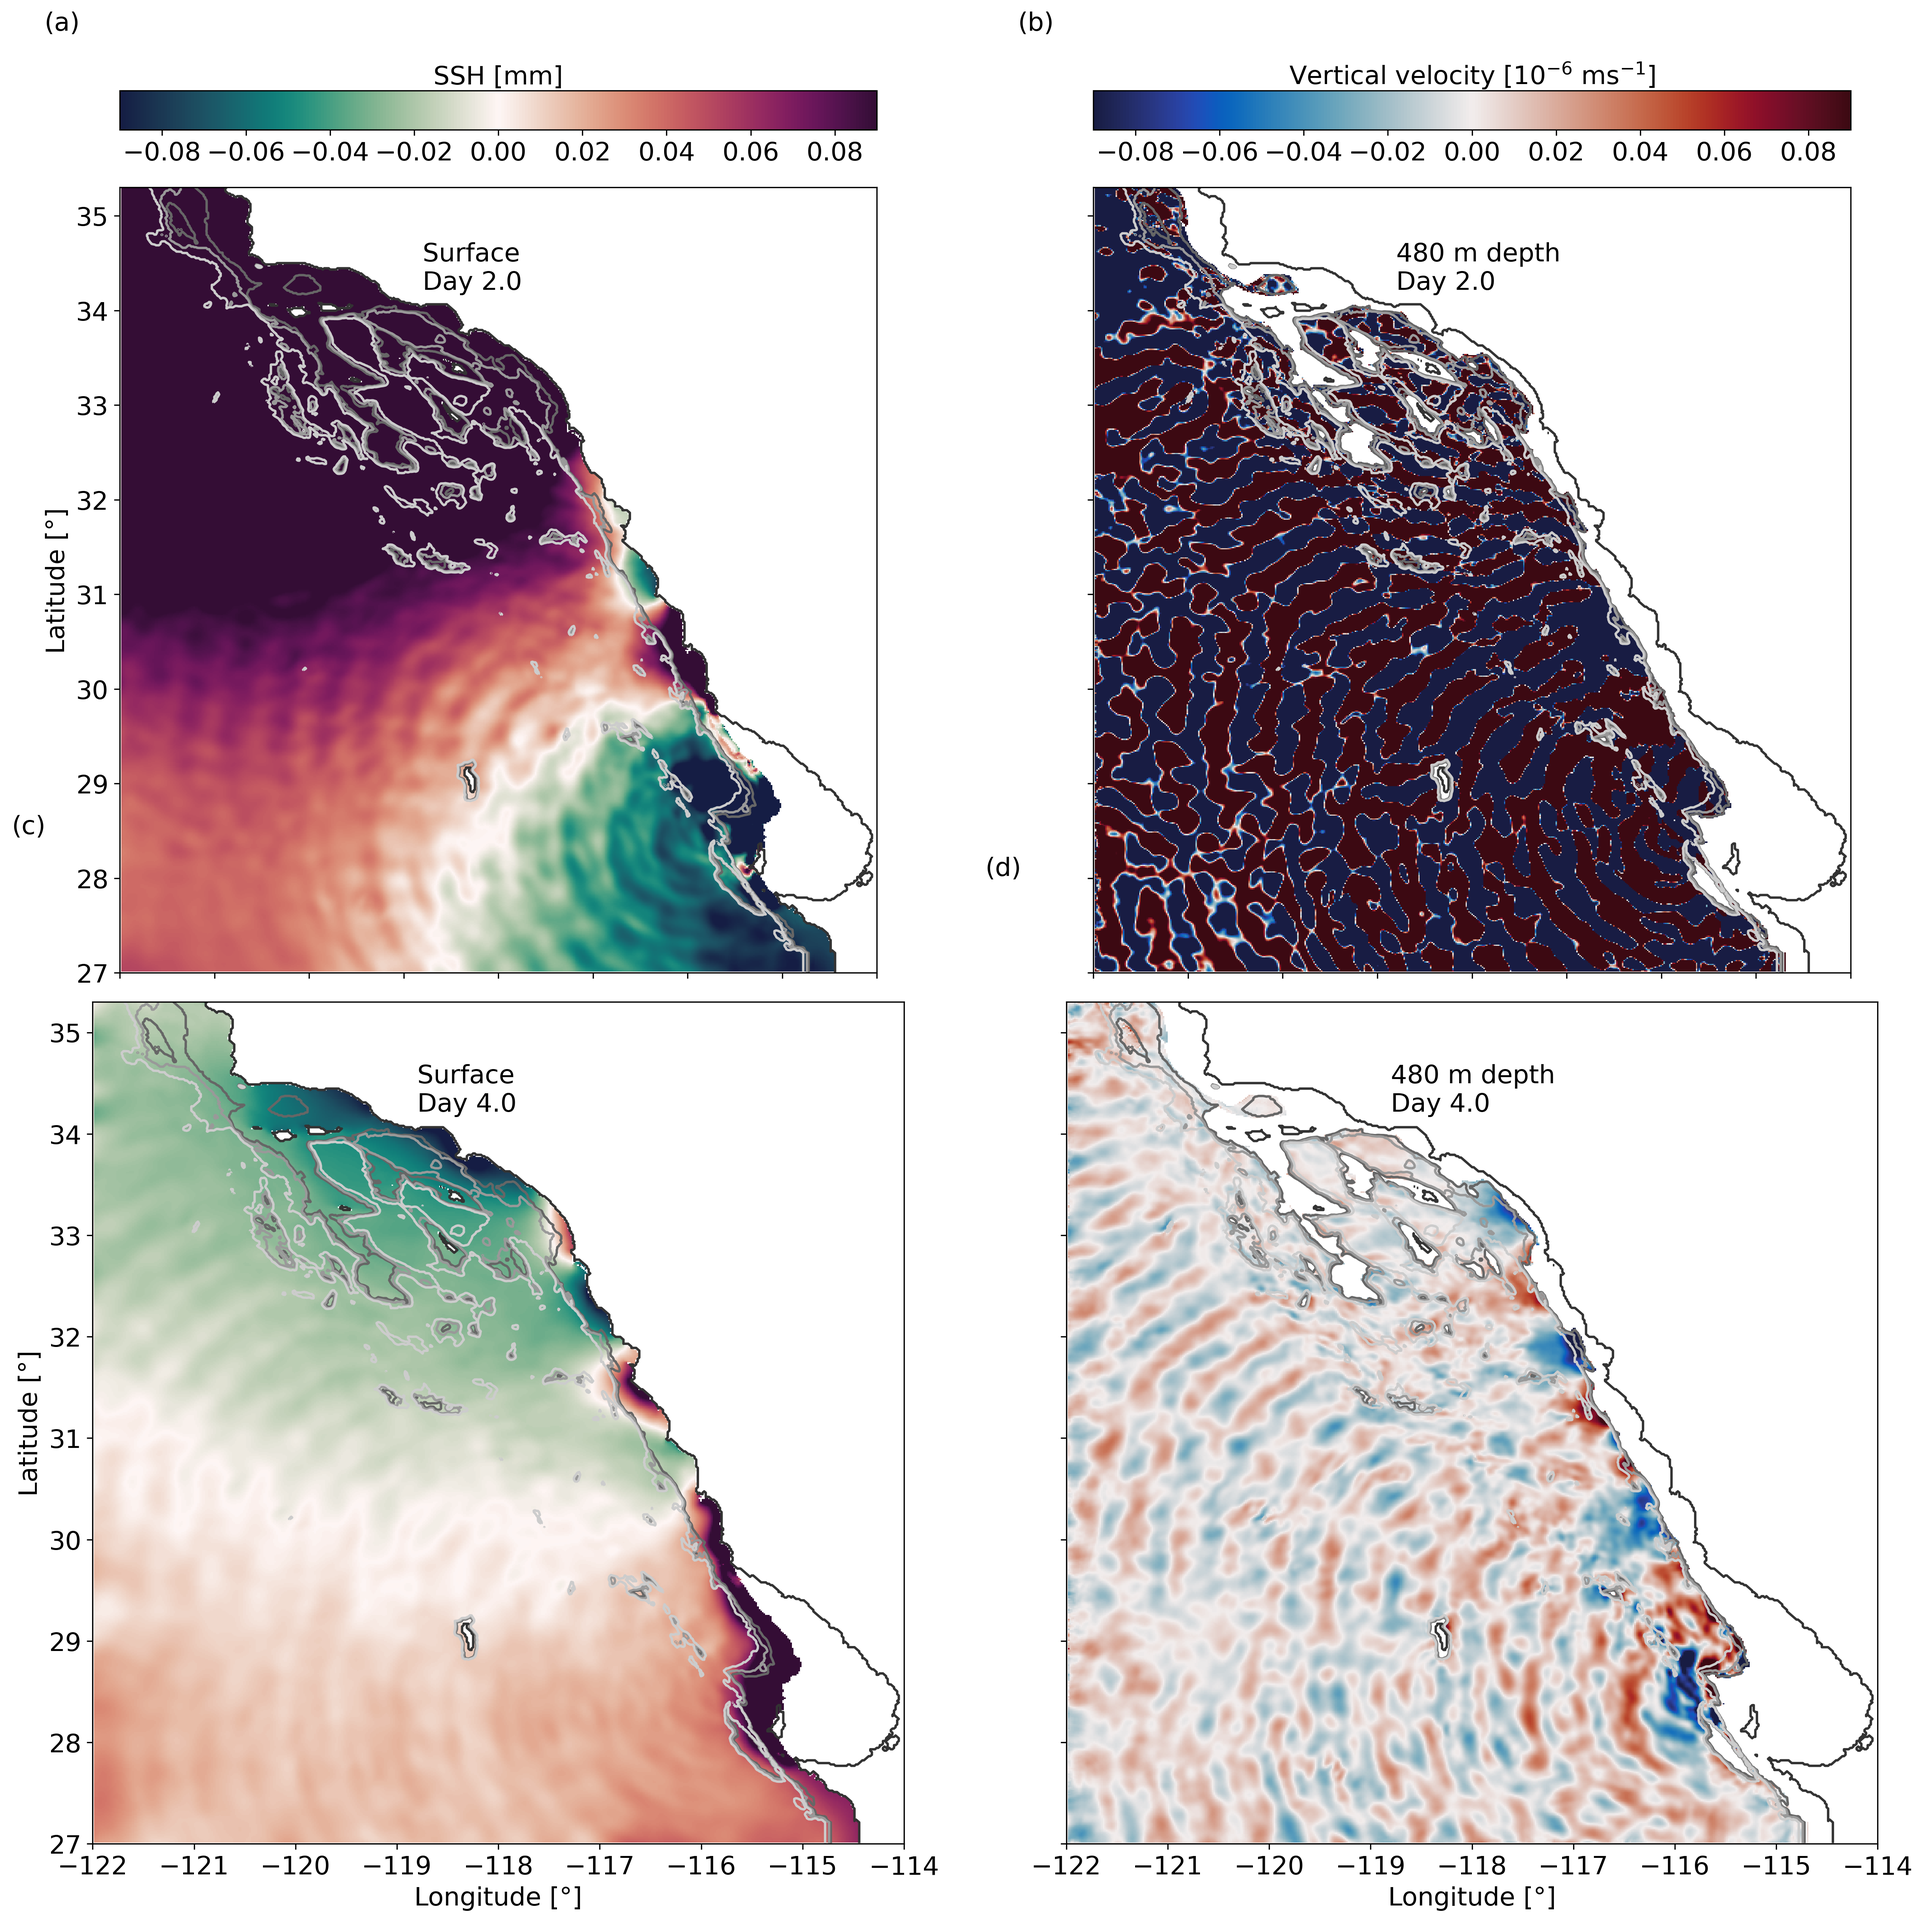
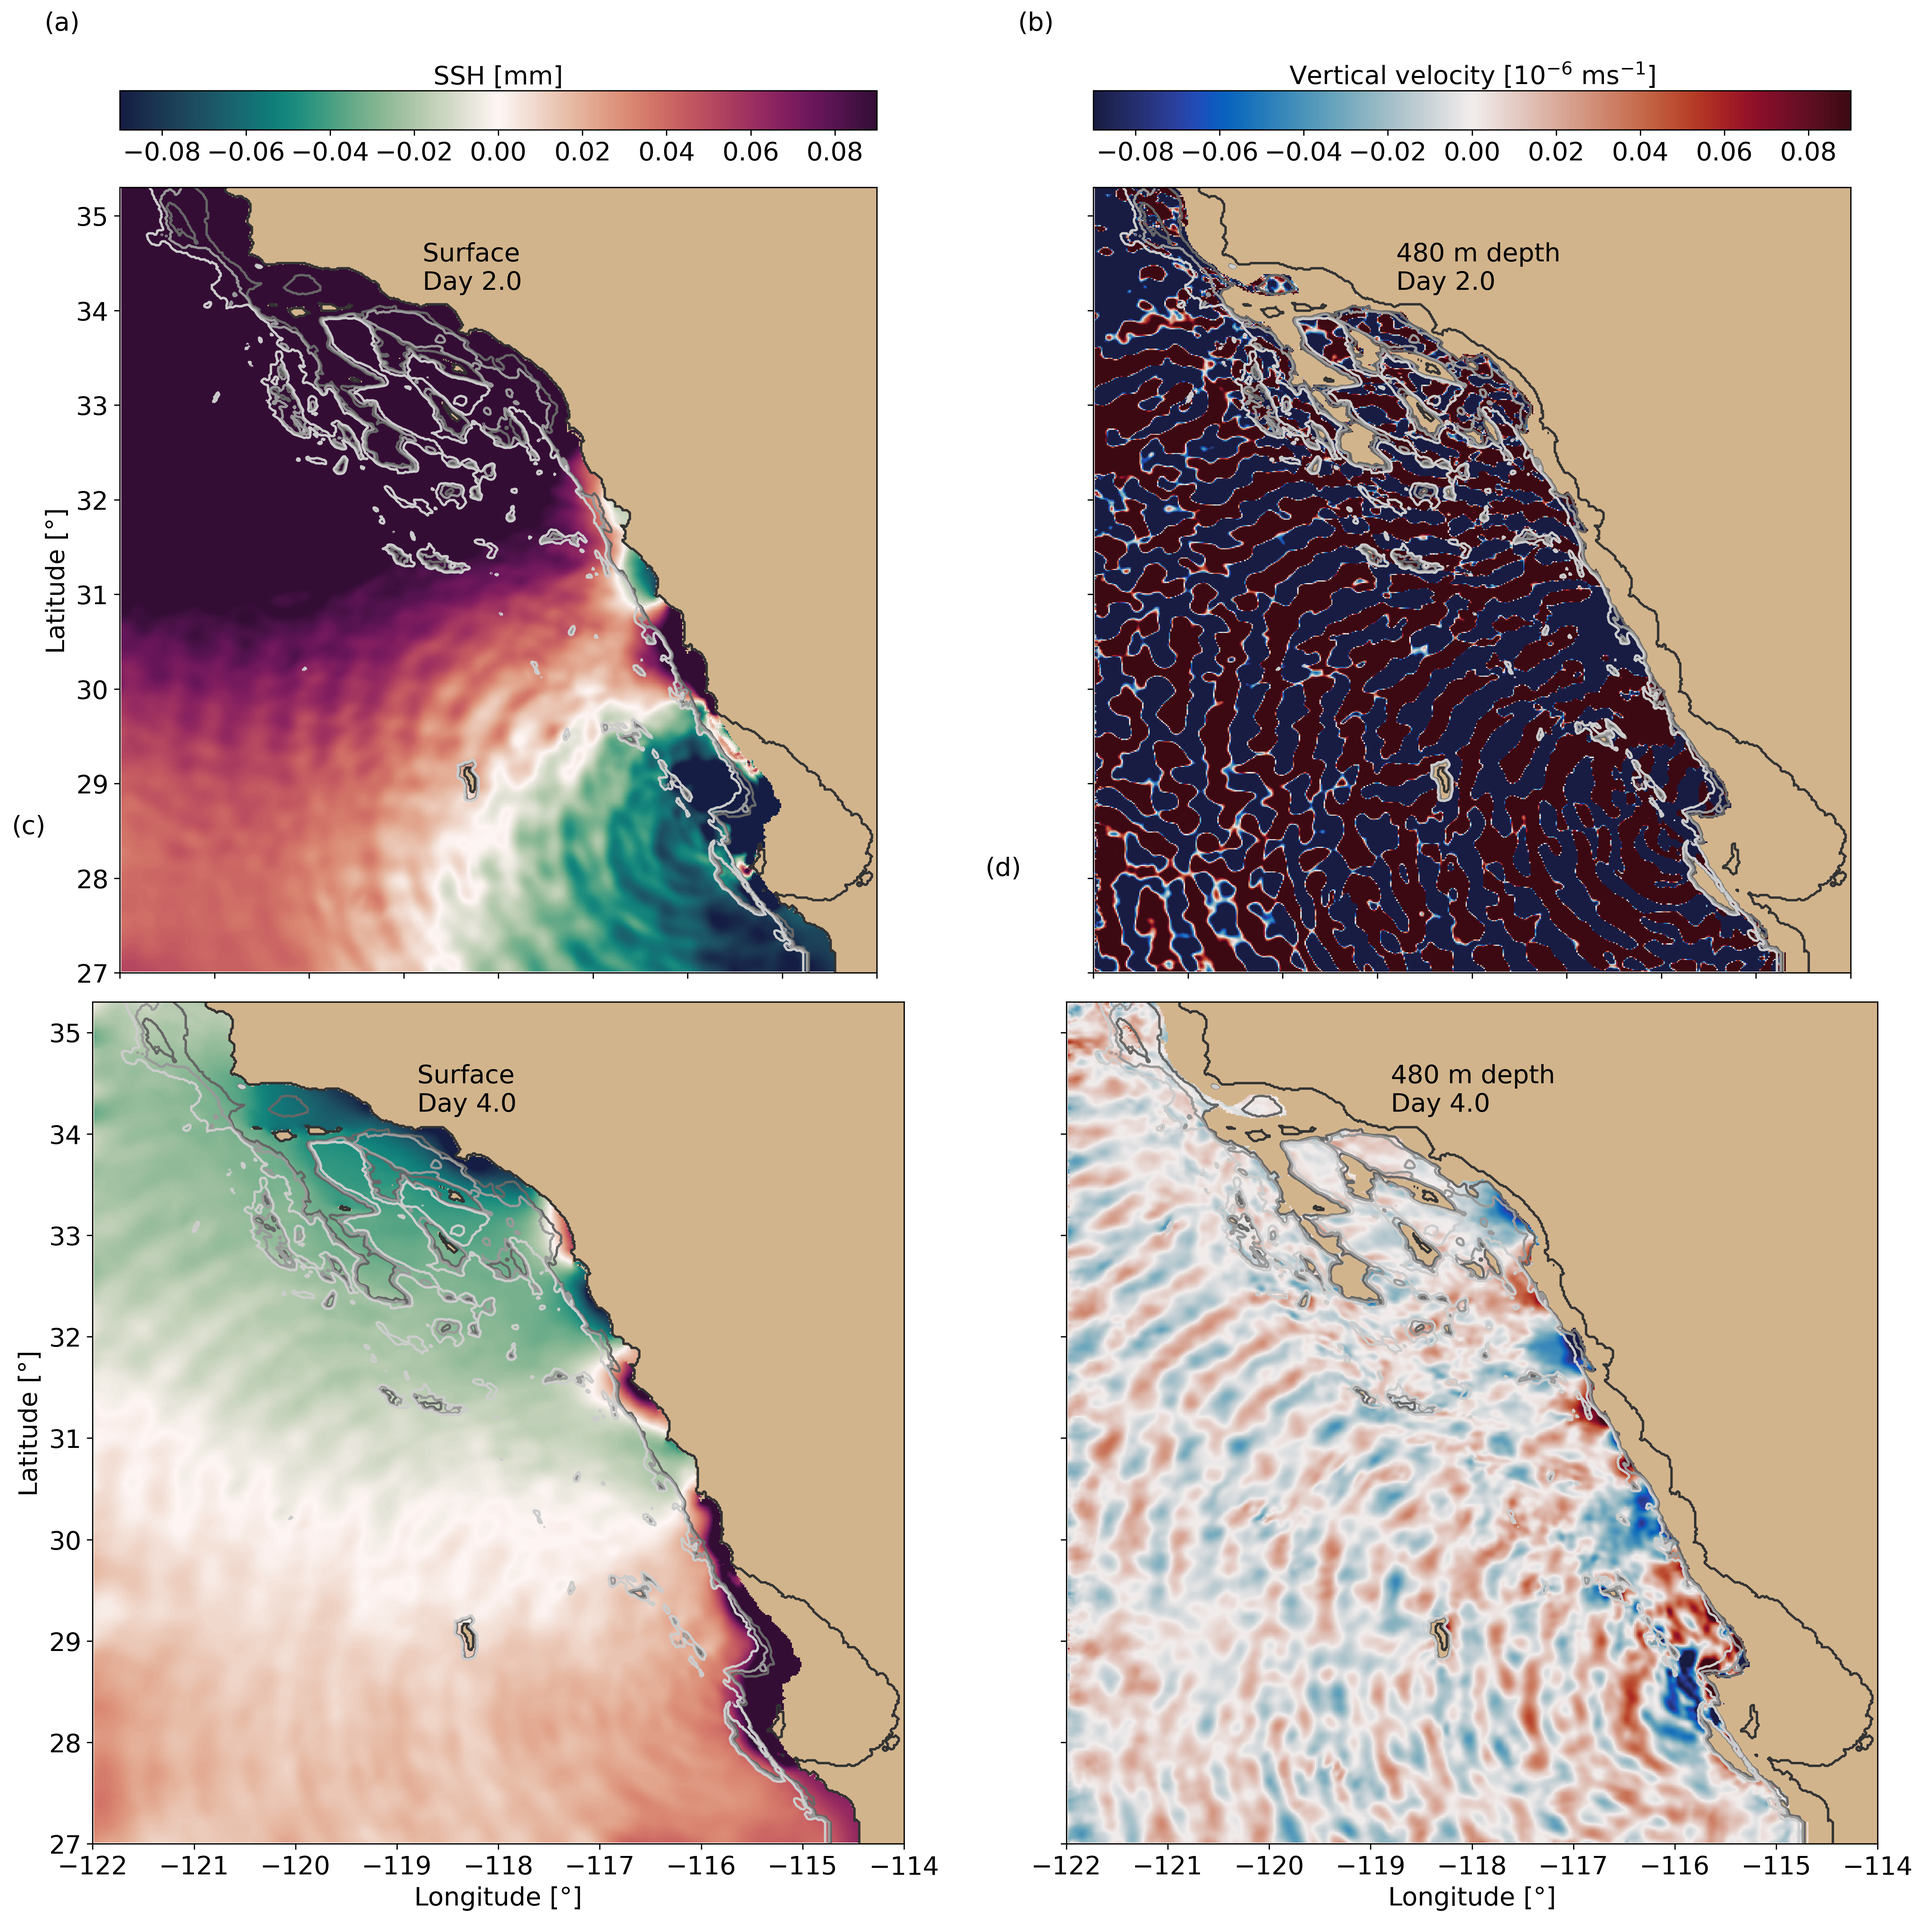
waves

Changed region(s): [[0.5914, 0.0935, 0.996, 0.9658], [0.1245, 0.0935, 0.4669, 0.9658]]

diff --git a/Scripts/Fig2WavesArticle.py b/Scripts/Fig2WavesArticle.py
@@ -8,7 +8,7 @@ import pylab as pl
 
 from SVBfunc import haversine
 
-coast = 'original'
+coast = 'smooth'
 
 i=0
 varname='dynVars'
@@ -189,4 +189,4 @@ ax.set_xlim(-122,-114)
 ax.set_ylim(27,35.3)
 ax.set_aspect(1)
 
-plt.savefig('/home/athelandersson/CTW-analysis/Figures/' + str(coast) + '/fig2Waves.png', transparent=True,bbox_inches='tight')
+plt.savefig('/home/athelandersson/CTW-analysis/Figures/' + str(coast) + '/fig2Waves.png',bbox_inches='tight')
